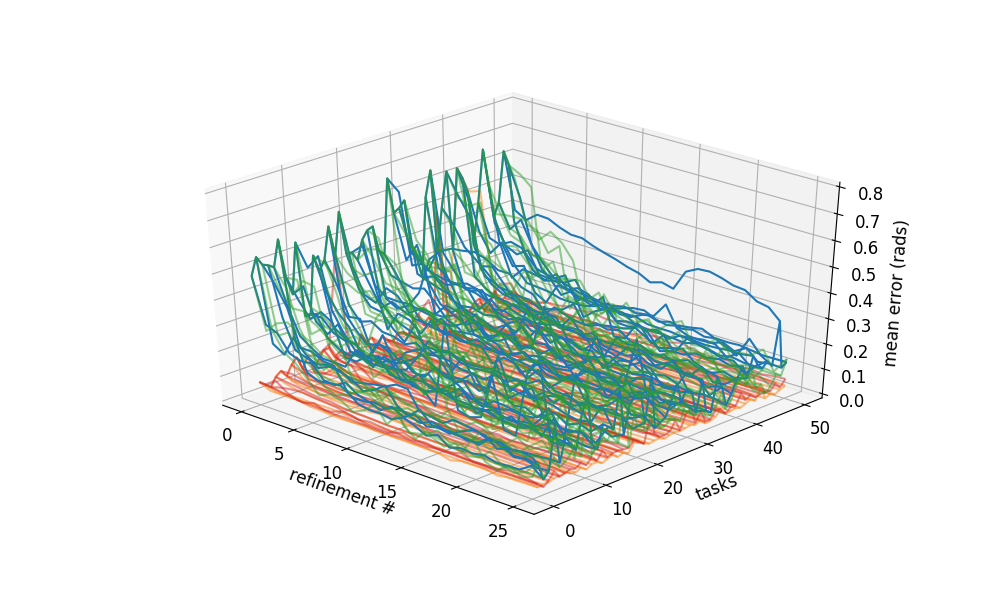
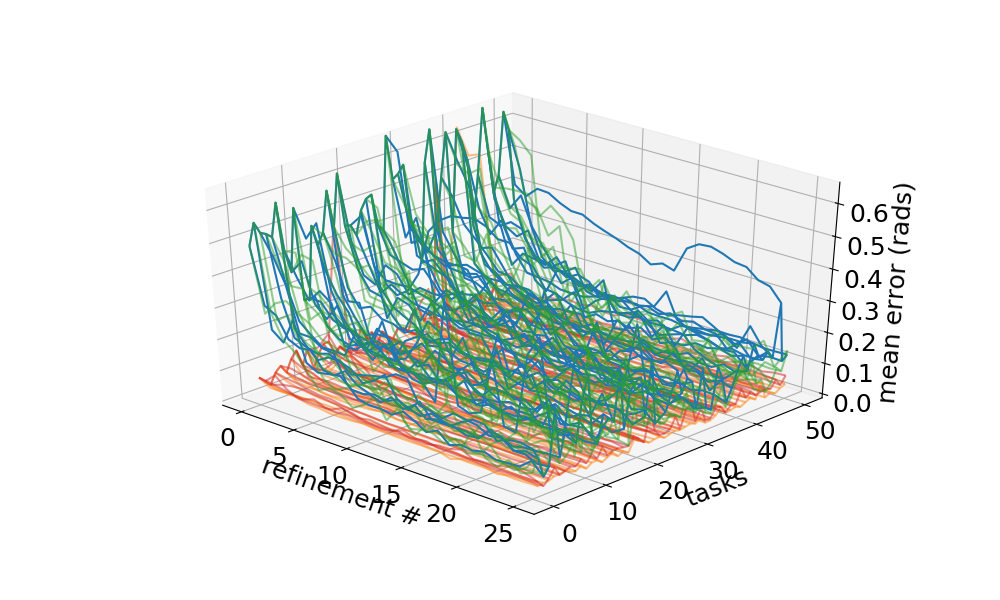
changed to make it ready to take 1 instance figures as well as capturing video

diff --git a/feedback_functions.py b/feedback_functions.py
@@ -50,8 +50,8 @@ def closeloop_run_fcn(model, desired_kinematics, P, I, delay_timesteps=0, model_
 
 	if Mj_render:
 		viewer = MjViewer(sim)
-		# viewer.cam.fixedcamid += 1
-		# viewer.cam.type = const.CAMERA_FIXED
+		viewer.cam.fixedcamid += 1
+		viewer.cam.type = const.CAMERA_FIXED
 	sim_state = sim.get_state()
 	control_vector_length=sim.data.ctrl.__len__()
 	print("control_vector_length: "+str(control_vector_length))
@@ -94,10 +94,10 @@ def closeloop_run_fcn(model, desired_kinematics, P, I, delay_timesteps=0, model_
 		alpha=.8
 		plot_t = np.linspace(timestep, desired_kinematics.shape[0]*timestep, desired_kinematics.shape[0])
 		plt.subplot(2, 1, 1)
-		plt.plot(plot_t, desired_kinematics[:,0], 'C2', plot_t, real_attempt_kinematics[:,0], 'C1', alpha=alpha)
+		plt.plot(plot_t, desired_kinematics[:,0], 'k', plot_t, real_attempt_kinematics[:,0], 'C1', alpha=.9)
 		plt.ylabel("$q_1$ (rads)")
 		plt.subplot(2, 1, 2)
-		plt.plot(plot_t, desired_kinematics[:,3], 'C2', plot_t, real_attempt_kinematics[:,3], 'C1', alpha=alpha)
+		plt.plot(plot_t, desired_kinematics[:,3], 'k', plot_t, real_attempt_kinematics[:,3], 'C1', alpha=.9)
 		plt.ylabel("$q_2$  (rads)")
 		plt.xlabel("time (s)")
 		plt.show(block=True)
@@ -111,15 +111,15 @@ def openloop_run_fcn(model, desired_kinematics, model_ver=0, plot_outputs=False,
 	average_error = 0.5*(error0+error1)
 	if plot_outputs:
 		plt.figure(figsize=(10, 6))
-		plt.rcParams.update({'font.size': 12})
+		plt.rcParams.update({'font.size': 18})
 		alpha=.8
 		plot_t = np.linspace(timestep, desired_kinematics.shape[0]*timestep, desired_kinematics.shape[0])
 		plt.subplot(2, 1, 1)
-		plt.plot(plot_t, desired_kinematics[:,0], 'C2', plot_t, real_attempt_kinematics[:,0], 'C0', alpha=alpha)
+		plt.plot(plot_t, desired_kinematics[:,0], 'tab:gray', plot_t, real_attempt_kinematics[:,0], 'C0', alpha=.9)
 		plt.ylabel("$q_1$ (rads)")
 		plt.ylim([-1.2, 1.2])
 		plt.subplot(2, 1, 2)
-		plt.plot(plot_t, desired_kinematics[:,3], 'C2', plot_t, real_attempt_kinematics[:,3], 'C0', alpha=alpha)
+		plt.plot(plot_t, desired_kinematics[:,3], 'tab:gray', plot_t, real_attempt_kinematics[:,3], 'C0', alpha=.9)
 		plt.ylabel("$q_2$  (rads)")
 		plt.xlabel("time (s)")
 		plt.ylim([-1.7, .2])
@@ -136,12 +136,12 @@ def p2p_positions_gen_fcn(low, high, number_of_positions, duration_of_each_posit
 	return random_array
 
 def plot_comparison_figures_fcn(errors_all, experiments_switch, trial_number):
-	plt.rcParams.update({'font.size': 12})
+	plt.rcParams.update({'font.size': 18})
 	# plt 1: vs cycle period
 	if experiments_switch[0]:
 		plt.figure(figsize=(10, 6))
 		plt.plot(np.linspace(.5,10,trial_number), errors_all[0][0,:], np.linspace(.5,10,trial_number), errors_all[0][1,:], marker='.')
-		plt.ylim(0,.6)
+		plt.ylim(0,.65)
 		ax = plt.gca()
 		xmin, xmax = ax.get_xbound()
 		mean_error_wo = mlines.Line2D([xmin,xmax], [errors_all[0][0,:].mean(),errors_all[0][0,:].mean()],color='C0', linestyle='--', alpha=.7)
@@ -160,7 +160,7 @@ def plot_comparison_figures_fcn(errors_all, experiments_switch, trial_number):
 	if experiments_switch[1]:
 		plt.figure(figsize=(10, 6))
 		plt.plot(range(errors_all[1][0,:].shape[0]), errors_all[1][0,:], range(errors_all[1][0,:].shape[0]), errors_all[1][1,:], marker='.')
-		plt.ylim(0,.75)
+		plt.ylim(0,.65)
 		ax = plt.gca()
 		xmin, xmax = ax.get_xbound()
 		mean_error_wo = mlines.Line2D([xmin,xmax], [errors_all[1][0,:].mean(),errors_all[1][0,:].mean()],color='C0', linestyle='--', alpha=.7)
@@ -179,7 +179,7 @@ def plot_comparison_figures_fcn(errors_all, experiments_switch, trial_number):
 	if experiments_switch[2]:
 		plt.figure(figsize=(10, 6))
 		plt.plot(range(errors_all[2][0,:].shape[0]), errors_all[2][0,:], range(errors_all[2][0,:].shape[0]), errors_all[2][1,:], marker='.')
-		plt.ylim(0,.75)
+		plt.ylim(0,.65)
 		ax = plt.gca()
 		xmin, xmax = ax.get_xbound()
 		mean_error_wo = mlines.Line2D([xmin,xmax], [errors_all[2][0,:].mean(),errors_all[2][0,:].mean()],color='C0', linestyle='--', alpha=.7)
@@ -190,20 +190,30 @@ def plot_comparison_figures_fcn(errors_all, experiments_switch, trial_number):
 		plt.legend(["open-loop",'close-loop'])
 		plt.xlabel("trial #")
 		plt.ylabel("error (rads)")
+		plt.tick_params(axis='y', rotation=45)  # Set rotation for yticks
 		plt.savefig('./results/P_I/exp3.png')
 		plt.show()
 	
 	# plt 4: compare all
 	if experiments_switch[3]:
 		plt.figure(figsize=(10, 6))
-		plt.bar(range(5), [errors_all[1][0,:].mean(axis=0), errors_all[2][0,:].mean(axis=0), errors_all[0][0,:].mean(axis=0), 
-				errors_all[4][0,:].mean(axis=0), errors_all[9].mean(axis=2)[0,:].mean()])
-		plt.bar(range(5), [errors_all[1][1,:].mean(axis=0), errors_all[2][1,:].mean(axis=0), errors_all[0][1,:].mean(axis=0),
-				errors_all[4][1,:].mean(axis=0), errors_all[9].mean(axis=2)[1,:].mean()])
-		plt.ylim(0,.85)
+		t_plot = np.linspace(1,5,5)
+		plt.bar(t_plot-.05,
+			[errors_all[1][0,:].mean(axis=0), errors_all[2][0,:].mean(axis=0), errors_all[0][0,:].mean(axis=0), 
+				errors_all[4][0,:].mean(axis=0), errors_all[9].mean(axis=2)[0,:].mean()],
+				yerr = [errors_all[1][0,:].std(axis=0), errors_all[2][0,:].std(axis=0), errors_all[0][0,:].std(axis=0), 
+				errors_all[4][0,:].std(axis=0), errors_all[9].mean(axis=2)[0,:].std()],
+				alpha = .9)
+		plt.bar(t_plot+.05,
+			[errors_all[1][1,:].mean(axis=0), errors_all[2][1,:].mean(axis=0), errors_all[0][1,:].mean(axis=0),
+				errors_all[4][1,:].mean(axis=0), errors_all[9].mean(axis=2)[1,:].mean()],
+				yerr = [errors_all[1][1,:].std(axis=0), errors_all[2][1,:].std(axis=0), errors_all[0][1,:].std(axis=0),
+				errors_all[4][1,:].std(axis=0), errors_all[9].mean(axis=2)[1,:].std()],
+				alpha = .9)
+		plt.ylim(0,.65)
 		plt.legend(["open-loop",'close-loop'])
 		plt.ylabel("mean error (rads)")
-		plt.xticks(range(6),('cyclical','point-to-point', 'cycle period', 'with contact', 'refinements\n(w/ shorter babbling)'), rotation=7)
+		plt.xticks(np.linspace(1,5,5), ('cyclical','point-to-point', 'cycle period', 'with contact', 'refinements\n(w/ shorter babbling)'), rotation=7)
 		plt.tick_params(axis='y', rotation=45)  # Set rotation for yticks
 		plt.savefig('./results/P_I/mean_errors.png')
 		plt.show()
@@ -216,7 +226,7 @@ def plot_comparison_figures_fcn(errors_all, experiments_switch, trial_number):
 	if experiments_switch[4]:
 		plt.figure(figsize=(10, 6))
 		plt.plot(range(errors_all[4][0,:].shape[0]), errors_all[4][0,:], range(errors_all[4][0,:].shape[0]), errors_all[4][1,:], marker='.')
-		plt.ylim(0,1)
+		plt.ylim(0,.65)
 		ax = plt.gca()
 		xmin, xmax = ax.get_xbound()
 		mean_error_wo = mlines.Line2D([xmin,xmax], [errors_all[4][0,:].mean(),errors_all[4][0,:].mean()],color='C0', linestyle='--', alpha=.7)
@@ -235,7 +245,7 @@ def plot_comparison_figures_fcn(errors_all, experiments_switch, trial_number):
 	if experiments_switch[5]:
 		plt.figure(figsize=(10, 6))
 		plt.plot(range(errors_all[5][0,:].shape[0]), errors_all[5][0,:], range(errors_all[5][0,:].shape[0]), errors_all[5][1,:],  range(errors_all[5][0,:].shape[0]), errors_all[5][2,:], marker='.')
-		plt.ylim(0,.25)
+		plt.ylim(0,.65)
 		ax = plt.gca()
 		xmin, xmax = ax.get_xbound()
 		mean_error_wo = mlines.Line2D([xmin,xmax], [errors_all[5][0,:].mean(),errors_all[5][0,:].mean()],color='C0', linestyle='--', alpha=.7)
@@ -255,19 +265,19 @@ def plot_comparison_figures_fcn(errors_all, experiments_switch, trial_number):
 	#plt 7: ever learn random
 	if experiments_switch[6]:
 		plt.figure(figsize=(10, 6))
-		plt.plot(range(errors_all[6][0,:].shape[0]), errors_all[6][0,:], range(errors_all[6][0,:].shape[0]), errors_all[6][1,:], range(errors_all[6][0,:].shape[0]), errors_all[6][2,:], marker='.')
-		plt.ylim(0,.6)
+		plt.plot(range(errors_all[6][0,:].shape[0]), errors_all[6][0,:], range(errors_all[6][0,:].shape[0]), errors_all[6][1,:], marker='.')
+		plt.ylim(0,.65)
 		ax = plt.gca()
 		xmin, xmax = ax.get_xbound()
 		mean_error_wo = mlines.Line2D([xmin,xmax], [errors_all[6][0,:].mean(),errors_all[6][0,:].mean()],color='C0', linestyle='--', alpha=.7)
 		ax.add_line(mean_error_wo)
 		mean_error_wf = mlines.Line2D([xmin,xmax], [errors_all[6][1,:].mean(),errors_all[6][1,:].mean()],color='C1', linestyle='--', alpha=.7)
 		ax.add_line(mean_error_wf)
-		mean_error_wf_t = mlines.Line2D([xmin,xmax], [errors_all[6][2,:].mean(),errors_all[6][2,:].mean()],color='C2', linestyle='--', alpha=.7)
-		ax.add_line(mean_error_wf_t)
-		plt.title("Error values as a function of refinements (different desired movements)")
-		plt.legend(['without feedback','with feedback', 'with feedback alt'])
-		plt.xlabel("trial #")
+		# mean_error_wf_t = mlines.Line2D([xmin,xmax], [errors_all[6][2,:].mean(),errors_all[6][2,:].mean()],color='C2', linestyle='--', alpha=.7)
+		# ax.add_line(mean_error_wf_t)
+		#plt.title("Error values as a function of refinements (different desired movements)")
+		plt.legend(['open-loop','close-loop'])
+		plt.xlabel("refinement #")
 		plt.ylabel("error (rads)")
 		plt.tick_params(axis='y', rotation=45)  # Set rotation for yticks
 		plt.savefig('./results/P_I/exp7.png')
@@ -275,6 +285,7 @@ def plot_comparison_figures_fcn(errors_all, experiments_switch, trial_number):
 
 	#plt 8: delay
 	if experiments_switch[7]:
+		plt.rcParams.update({'font.size': 14})
 		fig = plt.figure(figsize=(10, 6))
 		ax = fig.add_subplot(111, projection='3d')
 
@@ -299,6 +310,7 @@ def plot_comparison_figures_fcn(errors_all, experiments_switch, trial_number):
 		#plt.title('Error for a set of cyclical trials as a function of delay')
 		plt.savefig('./results/P_I/exp8.png')
 		plt.show()
+		plt.rcParams.update({'font.size': 18})
 
 	#plt 9: babbling mesh
 	if experiments_switch[8]:
@@ -317,7 +329,7 @@ def plot_comparison_figures_fcn(errors_all, experiments_switch, trial_number):
 		ax.plot_wireframe(X, Y, Z, rstride=100, cstride=1, color = 'C1', alpha=.5)
 		Z = exp9_average_error[2,:,:]
 		ax.plot_wireframe(X, Y, Z, rstride=100, cstride=1, color='C2', alpha=.5)
-		ax.set_zlim(0,.25)
+		ax.set_zlim(0,.65)
 		ax.view_init(elev=34., azim=-47.)
 		ax.set_xlabel('refinement #')
 		ax.set_ylabel('babbling duration (minutes)')
@@ -345,7 +357,7 @@ def plot_comparison_figures_fcn(errors_all, experiments_switch, trial_number):
 		ax.plot_wireframe(X, Y, Z, rstride=100, cstride=1, color='C2', alpha=.5)
 		Z = exp10_average_error[3,:,:]
 		ax.plot_wireframe(X, Y, Z, rstride=100, cstride=1, color='C3', alpha=.5)
-		ax.set_zlim(0,.8)
+		ax.set_zlim(0,.65)
 		ax.view_init(elev=34., azim=-47.)
 		ax.set_xlabel('refinement #')
 		ax.set_ylabel('tasks')
@@ -375,13 +387,14 @@ def plot_comparison_figures_fcn(errors_all, experiments_switch, trial_number):
 		plt.figure(figsize=(10, 6))
 		plt.bar(powers-.05, exp11_average_error[0,:], alpha=.9)
 		plt.bar(powers+.05, exp11_average_error[1,:], alpha=.9)
-		plt.ylim(0,.75)
+		plt.ylim(0,.5)
 		plt.legend(["open-loop",'close-loop'])
 		plt.ylabel("mean error (rads)")
 		#plt.xticks(range(6),('cyclical','point-to-point', 'cycle period', 'with contact', 'refinements\n(w/ shorter babbling)'), rotation=7)
 		#plt.tick_params(axis='y', rotation=45)  # Set rotation for yticks
 		plt.savefig('./results/P_I/exp11.png')
 		plt.xlabel('$N\:_{(in\:  2^{N} *[P, I])}$')
+		plt.tick_params(axis='y', rotation=45)  # Set rotation for yticks
 		plt.savefig('./results/P_I/exp11.png')
 		plt.show()
 

diff --git a/main.py b/main.py
@@ -25,10 +25,10 @@ I = np.array([2, 6])
 
 
 np.random.seed(0)
-experiments_switch = np.ones(11,)#np.ones(10,)#[0, 0, 0, 1, 0, 0, 0, 0, 0, 1]
-#experiments_switch[4]=1
-trial_number = 50
-plot_outputs = False
+experiments_switch = np.zeros(11,)#np.ones(10,)#[0, 0, 0, 1, 0, 0, 0, 0, 0, 1]
+experiments_switch[0]=1
+trial_number = 1
+plot_outputs = True
 Mj_render = False
 for ii in range(len(experiments_switch)):
 	globals()["exp{}_average_error".format(ii+1)]=np.zeros([2,1])
@@ -40,7 +40,7 @@ for ii in range(len(experiments_switch)):
 	
 if experiments_switch[0] ==1: # as a function of cycle period
 	features=np.ones(10,)
-	cycle_durations = np.linspace(.5,10,trial_number)
+	cycle_durations = np.array([2.5,2.5])#np.linspace(.5,10,trial_number)
 	test1_no = cycle_durations.shape[0]
 	exp1_average_error = np.zeros([2,test1_no]) # first row open-loop and second row close-loop
 	#cycle length experiment
@@ -82,18 +82,18 @@ if experiments_switch[3] ==1:	# standing up against weight
 	test4_no = 1
 	exp4_average_error = np.zeros([2,test4_no])
 	q0 = p2p_positions_gen_fcn(low=np.pi/3, high=np.pi/3, number_of_positions=1, duration_of_each_position=1, timestep=.005)
-	q0 = np.append(q0,p2p_positions_gen_fcn(low=0, high=0, number_of_positions=1, duration_of_each_position=14, timestep=.005))
+	q0 = np.append(q0,p2p_positions_gen_fcn(low=0, high=0, number_of_positions=1, duration_of_each_position=6, timestep=.005))
 	q1 = p2p_positions_gen_fcn(low=-np.pi/2, high=-np.pi/2, number_of_positions=1, duration_of_each_position=1, timestep=.005)
-	q1 = np.append(q1,p2p_positions_gen_fcn(low=0, high=0, number_of_positions=1, duration_of_each_position=14, timestep=.005))
+	q1 = np.append(q1,p2p_positions_gen_fcn(low=0, high=0, number_of_positions=1, duration_of_each_position=6, timestep=.005))
 	desired_kinematics = positions_to_kinematics_fcn(q0, q1, timestep = 0.005)
-	exp4_average_error[0,:], _, _ = openloop_run_fcn(model=model, desired_kinematics=desired_kinematics, model_ver=3, plot_outputs=False, Mj_render=False)
+	exp4_average_error[0,:], _, _ = openloop_run_fcn(model=model, desired_kinematics=desired_kinematics, model_ver=3, plot_outputs=plot_outputs, Mj_render=Mj_render)
 
 	q0 = p2p_positions_gen_fcn(low=np.pi/3, high=np.pi/3, number_of_positions=1, duration_of_each_position=1, timestep=.005)
-	q0 = np.append(q0,p2p_positions_gen_fcn(low=0, high=0, number_of_positions=1, duration_of_each_position=4, timestep=.005))
+	q0 = np.append(q0,p2p_positions_gen_fcn(low=0, high=0, number_of_positions=1, duration_of_each_position=6, timestep=.005))
 	q1 = p2p_positions_gen_fcn(low=-np.pi/2, high=-np.pi/2, number_of_positions=1, duration_of_each_position=1, timestep=.005)
-	q1 = np.append(q1,p2p_positions_gen_fcn(low=0, high=0, number_of_positions=1, duration_of_each_position=4, timestep=.005))
+	q1 = np.append(q1,p2p_positions_gen_fcn(low=0, high=0, number_of_positions=1, duration_of_each_position=6, timestep=.005))
 	desired_kinematics = positions_to_kinematics_fcn(q0, q1, timestep = 0.005)
-	exp4_average_error[1,:], _, _ = closeloop_run_fcn(model=model, desired_kinematics=desired_kinematics,  P=P, I=I, model_ver=3, plot_outputs=False, Mj_render=False)
+	exp4_average_error[1,:], _, _ = closeloop_run_fcn(model=model, desired_kinematics=desired_kinematics,  P=P, I=I, model_ver=3, plot_outputs=plot_outputs, Mj_render=Mj_render)
 
 if experiments_switch[4] == 1: # walking; contact dynamics
 	np.random.seed(0)
@@ -285,8 +285,8 @@ if experiments_switch[10] ==1: # cyclical on air
 errors_all = [exp1_average_error, exp2_average_error, exp3_average_error, exp4_average_error, exp5_average_error, exp6_average_error, exp7_average_error, exp8_average_error, exp9_average_error, exp10_average_error, exp11_average_error]
 #pickle.dump([errors_all, trial_number],open("results/P_I/feedback_errors_P_I_V8_50.sav", 'wb')) # saving the results with only P
 [errors_all, trial_number] = pickle.load(open("results/P_I/feedback_errors_P_I_V8_50.sav", 'rb')) # loading the results with only P
-# experiments_switch = np.zeros(11,)
-# experiments_switch[7] =1
-plot_comparison_figures_fcn(errors_all, experiments_switch, trial_number)
+experiments_switch = np.zeros(11,)
+#experiments_switch[3] =1
+#plot_comparison_figures_fcn(errors_all, experiments_switch, trial_number)
 
 #import pdb; pdb.set_trace()

diff --git a/all_functions.py b/all_functions.py
@@ -462,8 +462,8 @@ def run_activations_fcn(est_activations, model_ver=0, timestep=0.005, Mj_render=
 	sim = MjSim(model)
 	if Mj_render:
 		viewer = MjViewer(sim)
-		# viewer.cam.fixedcamid += 1
-		# viewer.cam.type = const.CAMERA_FIXED
+		viewer.cam.fixedcamid += 1
+		viewer.cam.type = const.CAMERA_FIXED
 	sim_state = sim.get_state()
 	control_vector_length=sim.data.ctrl.__len__()
 	print("control_vector_length: "+str(control_vector_length))
